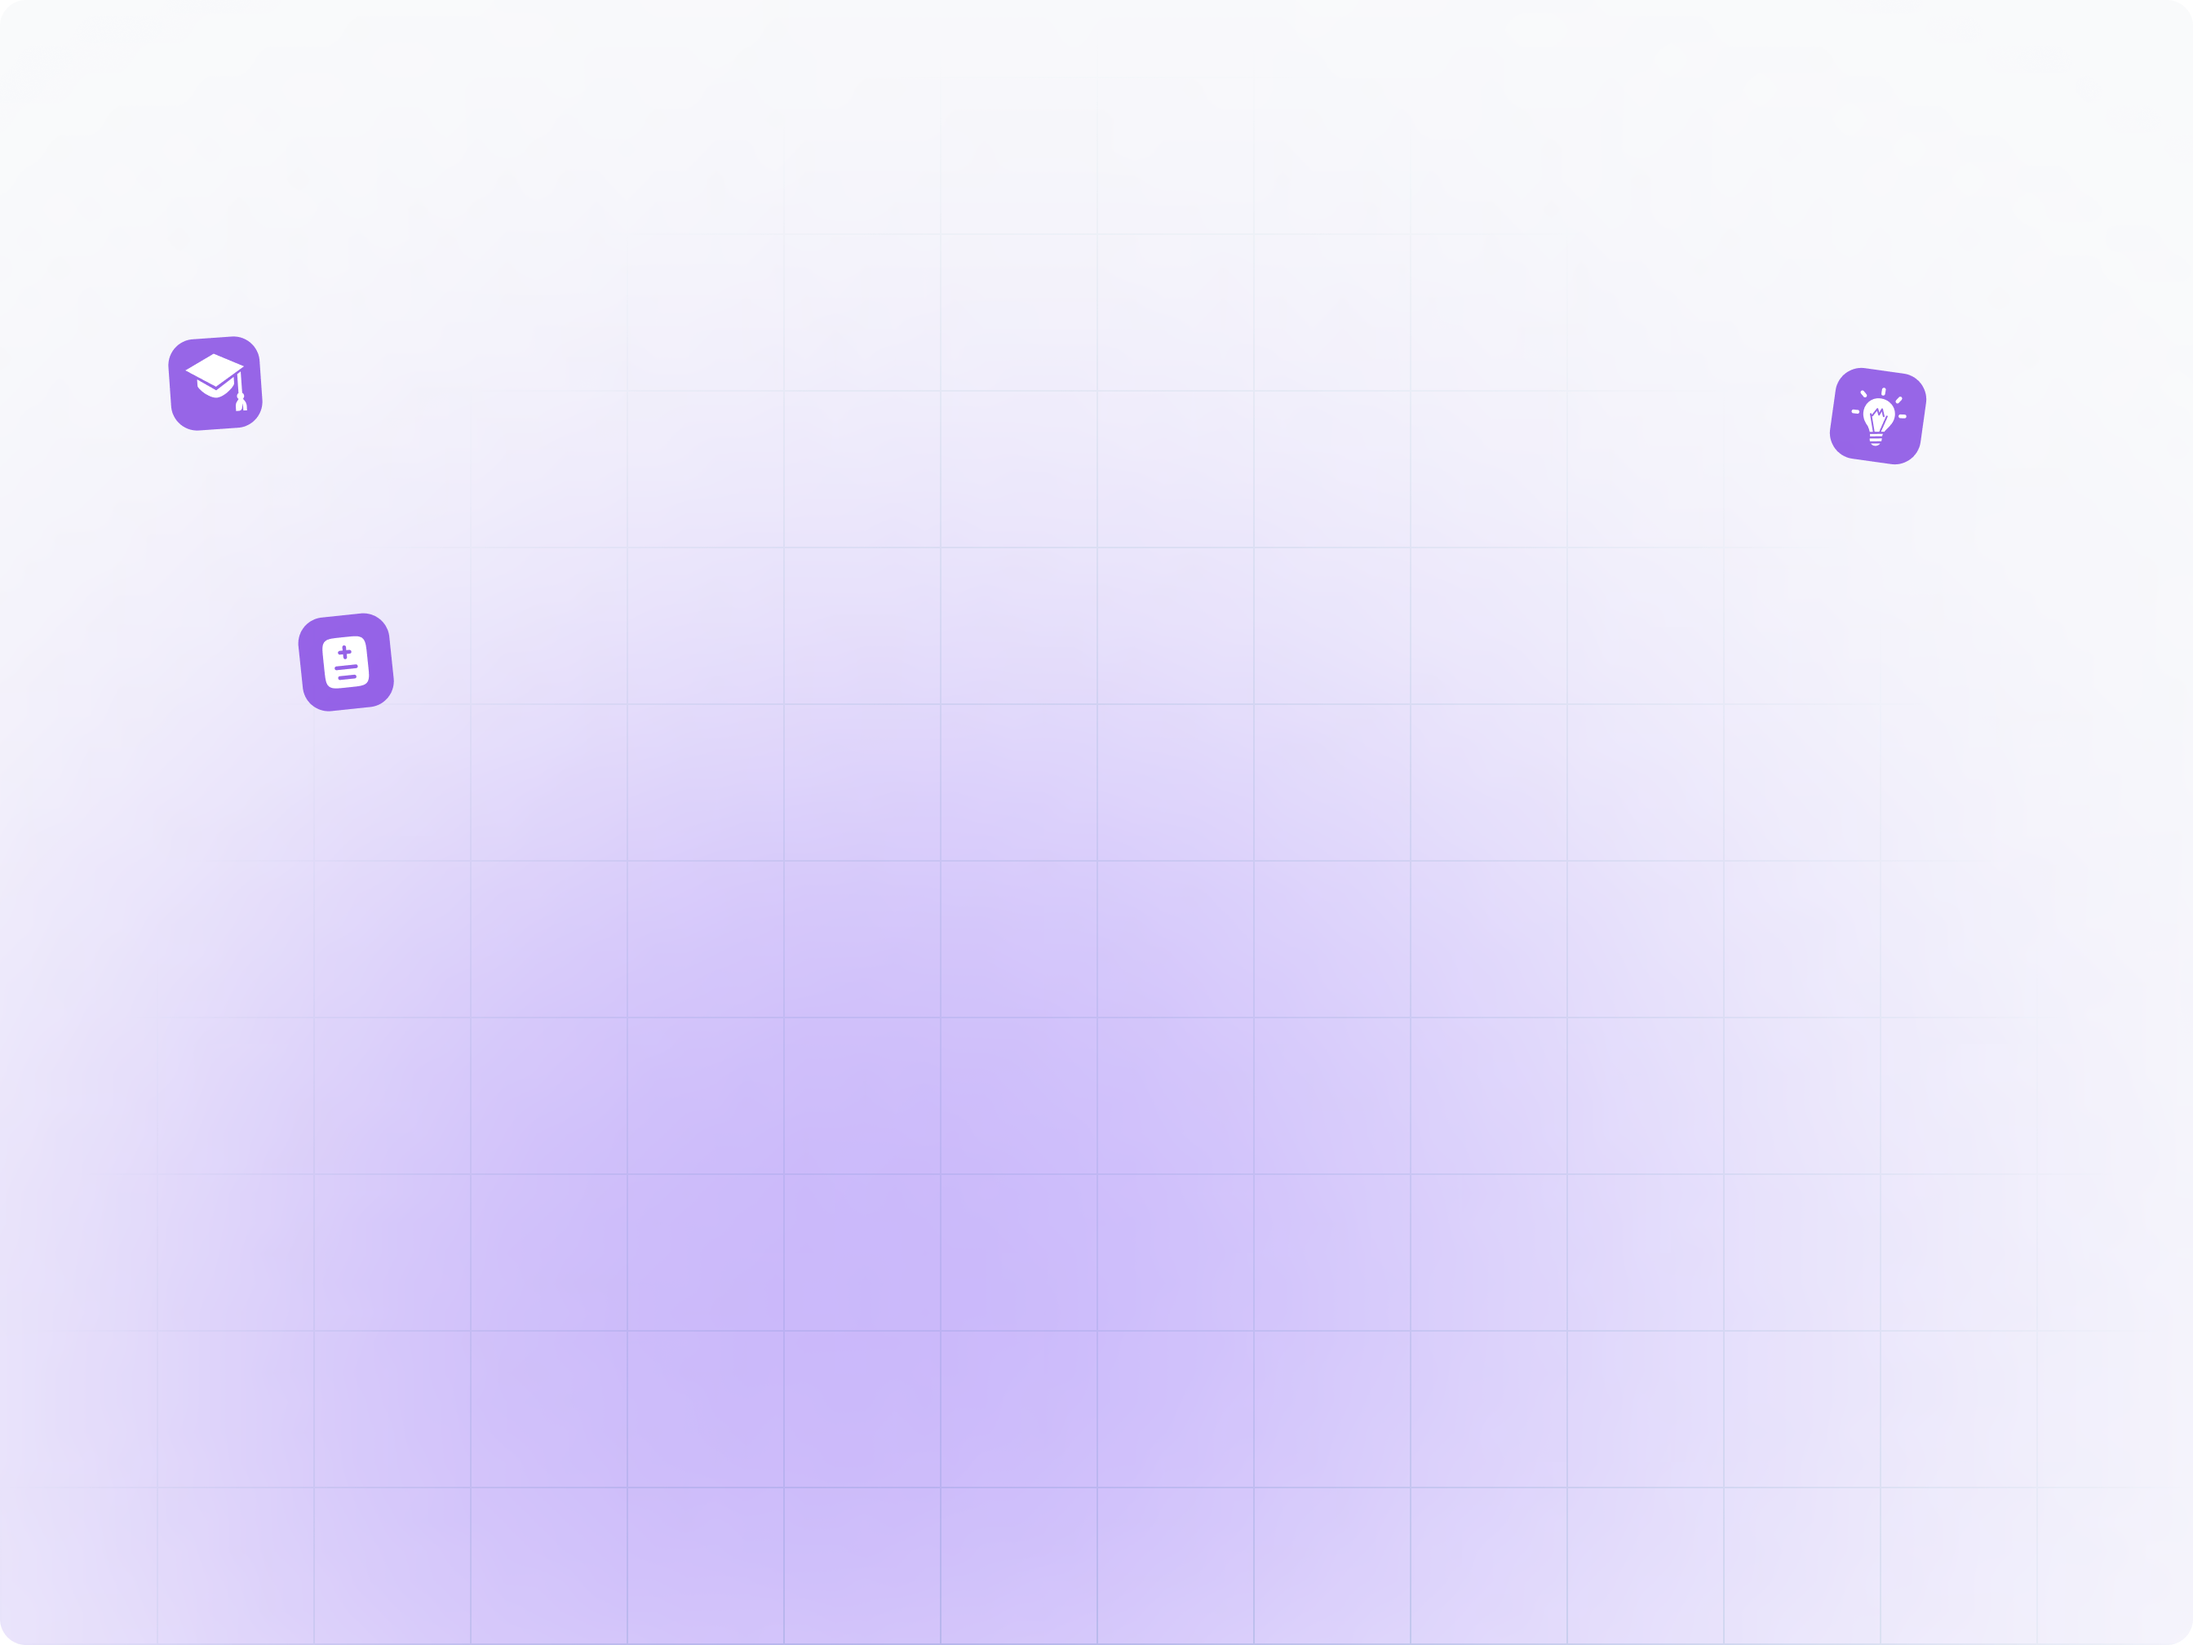
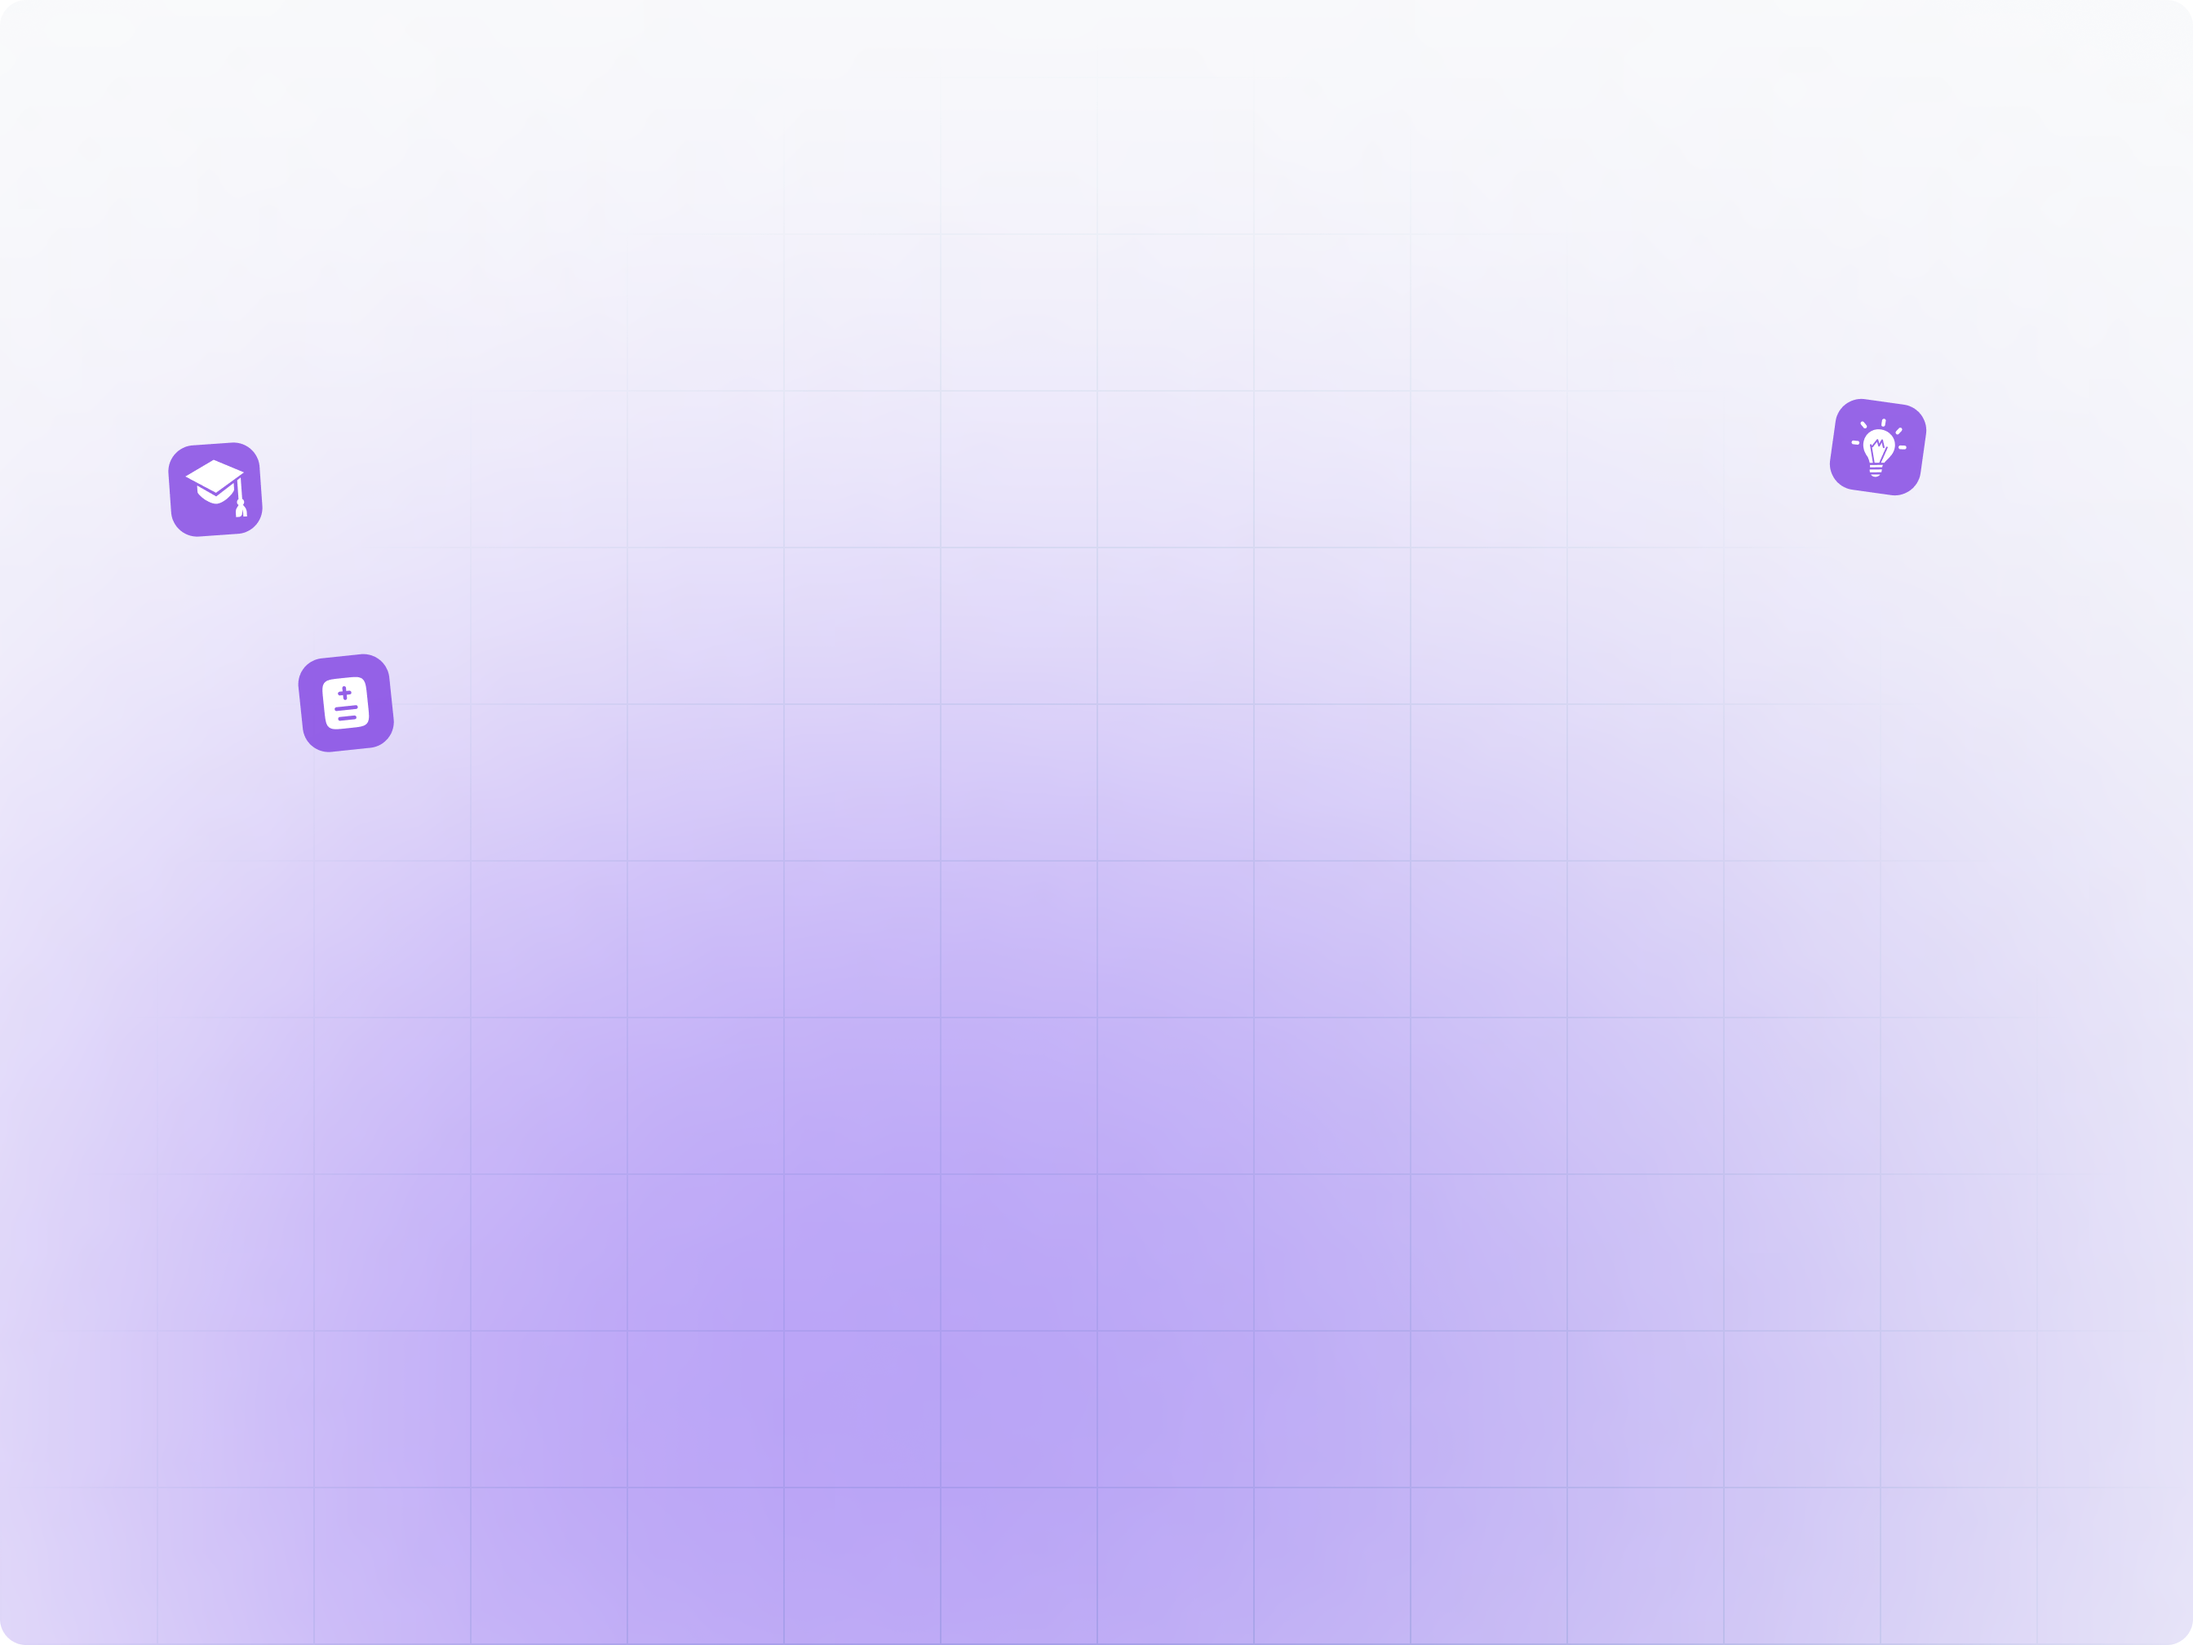
fix: Update margins and positioning in HeroSection and FeaturesSection for improved layout

diff --git a/components/hero-section.tsx b/components/hero-section.tsx
@@ -5,17 +5,17 @@ export function HeroSection() {
   return (
     <section className="relative py-16 sm:py-24 bg-gradient-to-br from-purple-50 ">
       {/* Decorative icons - Hidden on mobile for cleaner look */}
-      <div className="absolute inset-0 pointer-events-none hidden md:block">
+      <div className="absolute  inset-0 pointer-events-none hidden md:block">
       <img
         src="/hero-section1.png"
         alt="Decorative Background"
-        className="w-full h-full object-cover"
+        className="w-full h-full object-center "
       />
       
       </div>
      
       <div className="container mx-auto px-4 sm:px-6 lg:px-8 relative z-10">
-        <div className="text-center mb-8 sm:mb-12">
+        <div className="text-center mt-[30px] sm:mb-12">
           
           <h1 className="text-3xl sm:text-4xl md:text-5xl lg:text-6xl font-bold mb-4 sm:mb-6 text-balance leading-tight">
             Streamline Your <span className="text-purple-600"><br />Thesis Journey</span>
@@ -33,12 +33,12 @@ export function HeroSection() {
       
         
       </div>
-      <div className="max-w-5xl mx-auto mb-[-330px] mt-[50px] relative inset-0 pointer-events-none hidden md:block">
+      <div className="max-w-5xl mx-auto mb-[-350px] mt-[30px] relative inset-0 pointer-events-none hidden md:block">
           
             <img
               src="/hero-section.png"
               alt="Dashboard Preview"
-              className="w-full h-auto "
+              className="w-full h-auto ]"
             />
             
         </div>

diff --git a/components/features-section.tsx b/components/features-section.tsx
@@ -3,7 +3,7 @@ import { Button } from "@/components/ui/button"
 
 export function FeaturesSection() {
   return (
-    <section className="py-12 sm:py-16 lg:py-20  mt-[250px] ">
+    <section className="py-12 sm:py-16 lg:py-20  mt-[300px] ">
       <div className="container mx-auto px-4 sm:px-6 lg:px-8">
         <div className="text-center mb-12 sm:mb-16">
           <div className="inline-block px-3 sm:px-4 py-1.5 rounded-full border-2 border-purple-600 text-purple-600 text-xs sm:text-sm font-medium mb-3 sm:mb-4">
